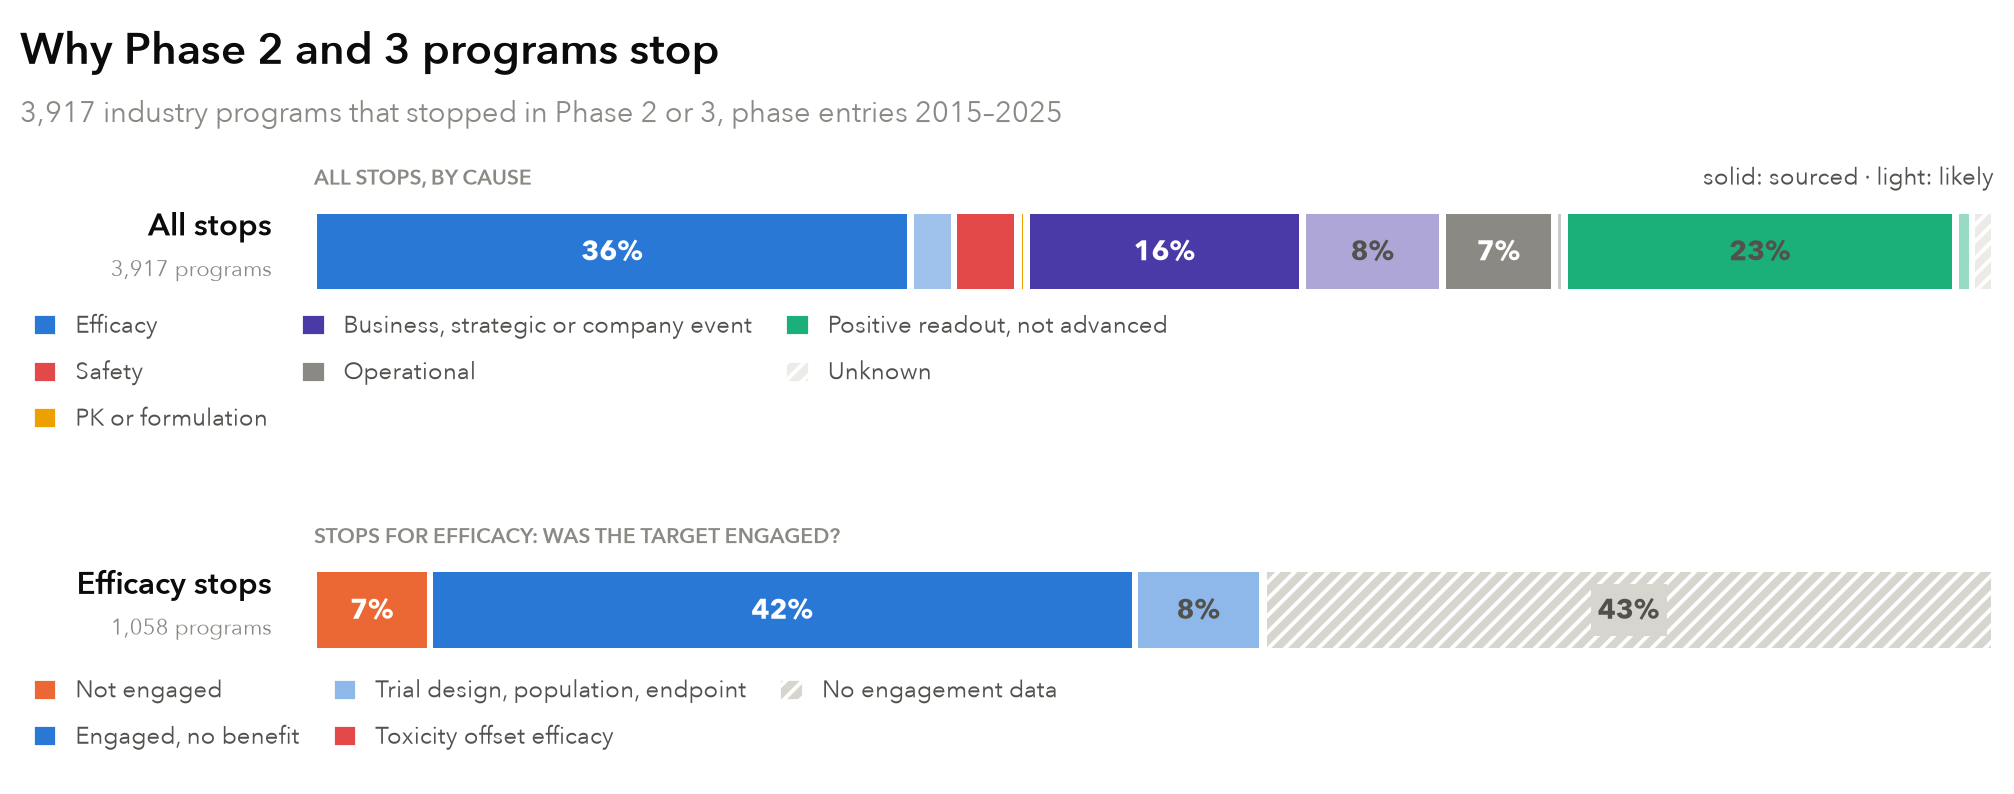
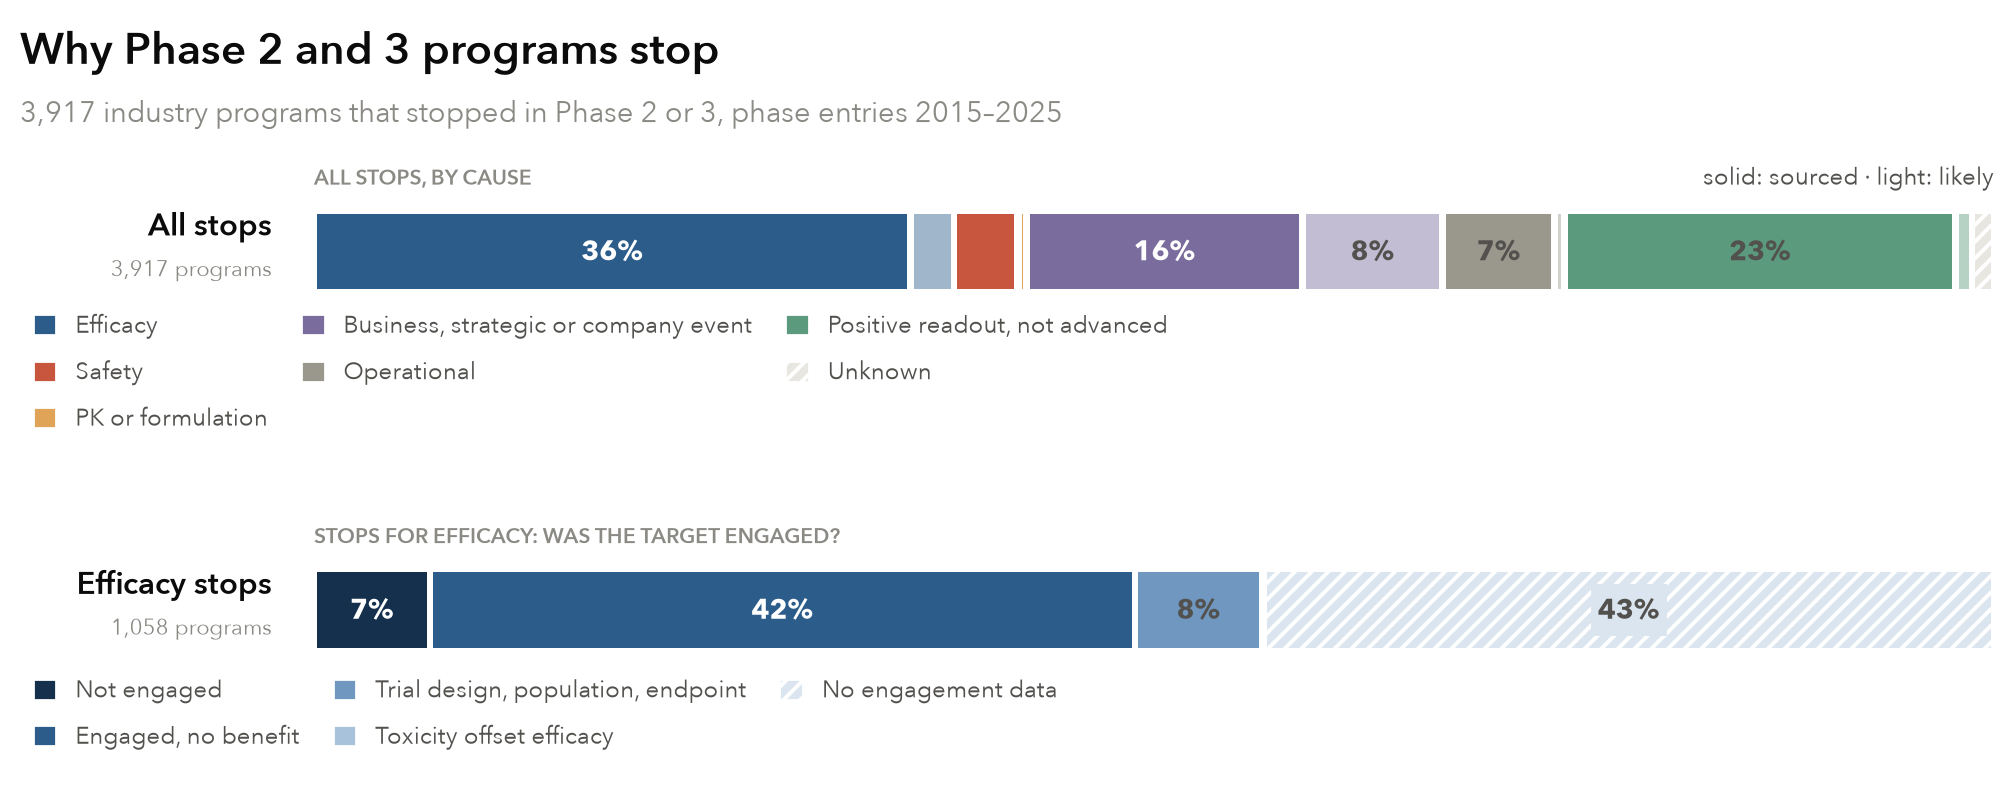
Attribution figure: muted cause palette; efficacy breakdown in shades of the efficacy color

diff --git a/report/figures.py b/report/figures.py
@@ -90,18 +90,24 @@ def failure_modes():
     save(fig, "failure_modes_by_phase")
 
 
-ATTRIBUTION_COLORS = {  # efficacy failures by engagement, in stacking order; efficacy in blues, toxicity in red
-    "not_engaged": ("Not engaged", "#eb6834"), "engaged_no_benefit": ("Engaged, no benefit", "#2a78d6"),
-    "trial_design": ("Trial design, population, endpoint", "#8fb8ea"), "toxicity": ("Toxicity offset efficacy", "#e34948"),
-    "indeterminate": ("No engagement data", "#d6d5ce"),
+EFFICACY = "#2b5c8a"
+ATTRIBUTION_COLORS = {  # efficacy failures by engagement, in stacking order; shades of the efficacy cause color
+    "not_engaged": ("Not engaged", "#14304d"), "engaged_no_benefit": ("Engaged, no benefit", EFFICACY),
+    "trial_design": ("Trial design, population, endpoint", "#6f97bf"), "toxicity": ("Toxicity offset efficacy", "#a9c2dc"),
+    "indeterminate": ("No engagement data", "#dbe5ef"),
 }
-CAUSE_COLORS = {  # pipeline.stop_causes.CAUSES, in stacking order (validated adjacent order; operational in grey)
-    "efficacy": ("Efficacy", "#2a78d6"), "safety": ("Safety", "#e34948"), "pk_formulation": ("PK or formulation", "#eda100"),
-    "business_strategic": ("Business or strategic", "#4a3aa7"), "company_event": ("Company acquired, merged or closed", "#e87ba4"),
-    "operational": ("Operational", "#8a8984"), "positive_not_advanced": ("Positive readout, not advanced", "#1baf7a"),
-    "development_continued": ("Did not actually stop", "#008300"), "unknown": ("Unknown", "#ecebe7"),
+CAUSE_COLORS = {  # pipeline.stop_causes.CAUSES, in stacking order; efficacy saturated, the rest muted
+    "efficacy": ("Efficacy", EFFICACY), "safety": ("Safety", "#c8553d"), "pk_formulation": ("PK or formulation", "#e0a458"),
+    "business_strategic": ("Business or strategic", "#7a6c9d"), "company_event": ("Company acquired, merged or closed", "#b07ca0"),
+    "operational": ("Operational", "#9a988c"), "positive_not_advanced": ("Positive readout, not advanced", "#5b9a7d"),
+    "development_continued": ("Did not actually stop", "#3d6b4f"), "unknown": ("Unknown", "#e8e6e0"),
 }
-DARK_FILLS = ("#eb6834", "#2a78d6", "#e34948", "#4a3aa7", "#8a8984", "#008300")
+
+
+def dark(color: str) -> bool:
+    """Whether white text reads better than dark text on this fill."""
+    r, g, b = (int(color[i:i + 2], 16) / 255 for i in (1, 3, 5))
+    return 0.2126 * r + 0.7152 * g + 0.0722 * b < 0.5
 
 
 def tint(color: str, amount: float = 0.55) -> str:
@@ -120,7 +126,7 @@ def stacked(ax, y, segments, height=0.62, gap=0.004):
                                                       edgecolor="white" if hatched else "none", linewidth=0))
         if w >= 0.055:
             ax.text(start + w / 2, y, f"{w:.0%}", ha="center", va="center", fontsize=10, fontweight="bold",
-                    color="white" if color in DARK_FILLS else INK2,
+                    color="white" if dark(color) else INK2,
                     bbox=dict(boxstyle="square,pad=0.25", fc=color, ec="none") if hatched else None)
         start += w
 
